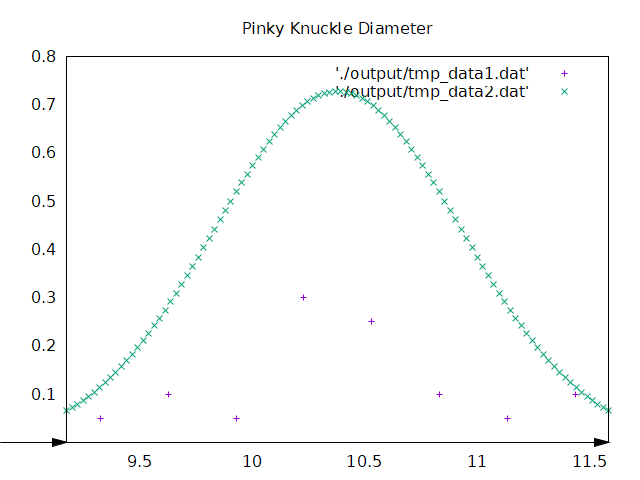
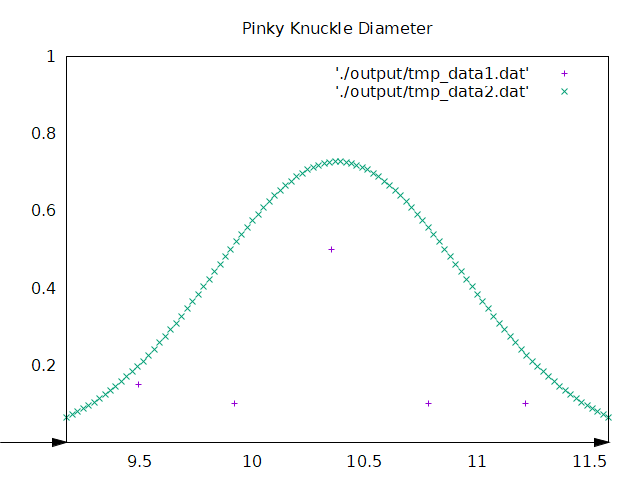
change filepath

diff --git a/src/w2/data_plot.c b/src/w2/data_plot.c
@@ -85,20 +85,15 @@ void test_plot(pinky_knuckle_cm* pData, char* pFilename){
     return;
 }
 
-void save_data_as_text(pinky_knuckle_cm* pData, char* pFilename){
+void save_data_div5_cnt(pinky_knuckle_cm* pData, char* pFilename){
     FILE* gnuplot = plot_save_open(pFilename);
     fprintf(gnuplot, "set table '%s'\n", pFilename);
     fprintf(gnuplot, "plot '-'\n");
-    float sum = 0;
-    for (int i = 0; i < NORMAL_SPLIT_PARTS + 2; i++){
-        sum += pData->normal_split_count[i];
-    }
-    printf("Sum: %f\n\r", sum);
     float x = 0;
     float y = 0;
-    for (int i = 0; i < NORMAL_SPLIT_PARTS + 2; i++){
-        x = (float)(pData->normal_split_points_center[i]);
-        y = (float)(pData->normal_split_count[i]/sum);
+    for (int i = 0; i < SPLIT_PARTS; i++){
+        x = (float)(pData->split_points_center[i]);
+        y = (float)(pData->split_count[i]/(float)pData->size);
         fprintf(gnuplot, "%g %g\n", x, y);
         printf("Plot %g %g\n", x, y);
     }
@@ -109,7 +104,7 @@ void save_data_as_text(pinky_knuckle_cm* pData, char* pFilename){
     return;
 }
 
-void save_line_as_text(char* pFilename, float x_min, float x_max, float mu, float sigma){
+void save_data_div5_norm(char* pFilename, float x_min, float x_max, float mu, float sigma){
     FILE* gnuplot = plot_save_open();
     fprintf(gnuplot, "set xrange [%g:%g]\n", x_min, x_max);
     fprintf(gnuplot, "invsqrt2pi = 0.398942280401433\n");
@@ -123,16 +118,23 @@ void save_line_as_text(char* pFilename, float x_min, float x_max, float mu, floa
     return;
 }
 
-void plot_data_vs_normal(pinky_knuckle_cm* pData, char* pFilename){
+void save_data_div5_vert_grid(char* pFilename, float y_min, float y_max){
+    
+}
+
+void plot_data_div5(pinky_knuckle_cm* pData, char* pFilename){
     // plot data vs normal distribution with 8 parts
     FILE* gnuplot = plot_open(pFilename);
     float x_min = pData->normal_split_points[0]-pData->variance;
     float x_max = pData->normal_split_points[6]+pData->variance;
+    float y_min = 0;
+    float y_max = 1;
     fprintf(gnuplot, "set title 'Pinky Knuckle Diameter'\n");
     fprintf(gnuplot, "set xrange [%g:%g]\n", x_min, x_max);
+    fprintf(gnuplot, "set yrange [%g:%g]\n", y_min, y_max);
     //
-    save_data_as_text(pData, TMP_DATA_FILE1);
-    save_line_as_text(TMP_DATA_FILE2, x_min, x_max, pData->mean, pData->variance);
+    save_data_div5_cnt(pData, TMP_DATA_FILE1);
+    save_data_div5_norm(TMP_DATA_FILE2, x_min, x_max, pData->mean, pData->variance);
     fprintf(gnuplot, "plot '%s', '%s'\n", TMP_DATA_FILE1, TMP_DATA_FILE2);
     plot_close(gnuplot);
     return;

diff --git a/src/w2/data_proc.c b/src/w2/data_proc.c
@@ -19,6 +19,9 @@ void initialize_data(pinky_knuckle_cm* pData){
         pData->split_count[i] = 0;
     }
     for (int i = 0; i < SPLIT_PARTS; i++){
+        pData->split_points_center[i] = 0;
+    }
+    for (int i = 0; i < SPLIT_PARTS; i++){
         for (int j = 0; j < MAX_SIZE; j++){
             pData->split_data[i][j] = 0;
         }
@@ -89,6 +92,11 @@ void print_data(pinky_knuckle_cm* pData, char* pName){
     }
     printf("%s.\n\r", UNIT);
     printf("Split step:        %f %s.\n\r", pData->split_step, UNIT);
+    printf("Split points center: ");
+    for (int i = 0; i < SPLIT_PARTS; i++){
+        printf("%f ", pData->split_points_center[i]);
+    }
+    printf("%s.\n\r", UNIT);
     printf("Split count:       ");
     for (int i = 0; i < SPLIT_PARTS; i++){
         printf("%d ", pData->split_count[i]);
@@ -161,6 +169,14 @@ void get_split_points(pinky_knuckle_cm* pData){
     return;
 }
 
+void get_split_points_center(pinky_knuckle_cm* pData){
+    float step = pData->split_step;
+    for (int i = 0; i < SPLIT_PARTS; i++){
+        pData->split_points_center[i] = pData->split_points[0] + 0.5 * step + i * step;
+    }
+    return;
+}
+
 void get_split_data(pinky_knuckle_cm* pData){
     // use split_points to split data into SPLIT_PARTS parts
     for (int i = 0; i < SPLIT_PARTS; i++){
@@ -219,6 +235,7 @@ void get_stats(pinky_knuckle_cm* pData){
     get_mean(pData);
     get_variance(pData);
     get_split_points(pData);
+    get_split_points_center(pData);
     get_split_data(pData);
     get_normal_split_points(pData);
     get_normal_split_points_center(pData);

diff --git a/src/w2/data_plot.h b/src/w2/data_plot.h
@@ -7,16 +7,24 @@
 
 /* "qt" for qt terminal, "wxt" for wxt terminal */
 #define GNUPLOT_TERMINAL "wxt"
-#define TMP_DATA_FILE1   "./output/tmp_data1.dat"
-#define TMP_DATA_FILE2   "./output/tmp_data2.dat"
+#define TMP_DATA_FILE1   "./output/div5_p1_tmp_data1.dat"
+#define TMP_DATA_FILE2   "./output/div5_p1_tmp_data2.dat"
 
+/******************************************************************************************/
+// help functions 
 FILE* plot_open(char* pFilename);
 void plot_close(FILE* gnuplot);
 FILE* plot_save_open();
 void plot_save_close(FILE *gnuplot);
+
+/******************************************************************************************/
+// plot functions
 void test_plot(pinky_knuckle_cm* pData, char* pFilename);
-void save_data_as_text(pinky_knuckle_cm *pData, char *pFilename);
-void save_line_as_text(char* pFilename, float x_min, float x_max, float mu, float sigma);
-void plot_data_vs_normal(pinky_knuckle_cm* pData, char* pFilename);
+
+// plot div5
+void save_data_div5_cnt(pinky_knuckle_cm *pData, char *pFilename);
+void save_data_div5_norm(char* pFilename, float x_min, float x_max, float mu, float sigma);
+void save_data_div5_vert_grid(char* pFilename, float y_min, float y_max);
+void plot_data_div5(pinky_knuckle_cm* pData, char* pFilename);
 
 #endif // DATA_PLOT_H

diff --git a/src/w2/data_proc.h b/src/w2/data_proc.h
@@ -13,10 +13,13 @@ typedef struct{
     float max;
     float mean;
     float variance;
+    //
     float split_points[SPLIT_PARTS + 1];
     float split_step;
+    float split_points_center[SPLIT_PARTS];
     float split_data[SPLIT_PARTS][MAX_SIZE];
     int split_count[SPLIT_PARTS];
+    //
     float normal_split_points[NORMAL_SPLIT_PARTS+1]; // m_p_3std, m_p_2std, m_p_1std, m, m_m_1std, m_m_2std, m_m_3std
     float normal_split_points_center[NORMAL_SPLIT_PARTS + 2];
     float normal_split_data[NORMAL_SPLIT_PARTS+2][MAX_SIZE];
@@ -32,6 +35,7 @@ void get_max(pinky_knuckle_cm* pData);
 void get_mean(pinky_knuckle_cm* pData);
 void get_variance(pinky_knuckle_cm* pData);
 void get_split_points(pinky_knuckle_cm* pData);
+void get_split_points_center(pinky_knuckle_cm *pData);
 void get_split_data(pinky_knuckle_cm* pData);
 void get_normal_split_points(pinky_knuckle_cm* pData);
 void get_normal_split_points_center(pinky_knuckle_cm* pData);

diff --git a/src/w2/main.c b/src/w2/main.c
@@ -6,7 +6,7 @@
 #define MALE_DATA    "./dataset/data_male.csv"
 #define FEMALE_DATA  "./dataset/data_female.csv"
 #define TEST_IMAGE   "./output/test_image.png"
-#define PLOT_IMAGE   "./output/plot_image.png"
+#define PLOT_IMAGE   "./output/div5_p1.png"
 
 int main(void) {
     printf("Program started!\n");
@@ -37,7 +37,7 @@ int main(void) {
 
     // plot data
     // test_plot(&male_data, TEST_IMAGE);
-    plot_data_vs_normal(&male_data, PLOT_IMAGE);
+    plot_data_div5(&male_data, PLOT_IMAGE);
 
     printf("Program ended!\n\r");
     return 0;
